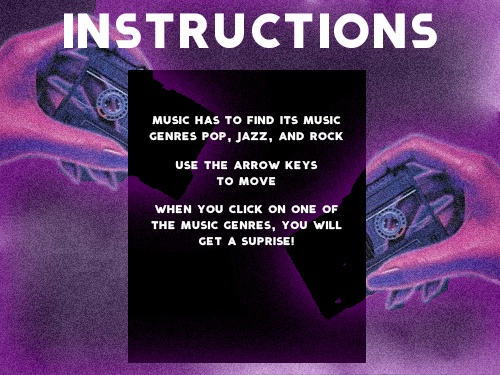
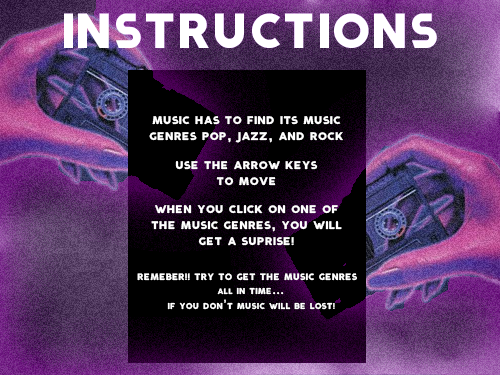
P3: changed instructions images and added stuck array, will try to fix with the help of Enric

Changed region(s): [[0.27, 0.704, 0.72, 0.8507]]

diff --git a/exercises/project3/js/script.js b/exercises/project3/js/script.js
@@ -72,7 +72,15 @@ let winImage;
 
 //decoys
 let decoyText;
+// stuck
+let numStuck = 5;
 
+//array for stuck
+let decoyStuck = [];
+let stuckText1 = [];
+
+//stuck text
+let stuckText;
 // music for preys
 let jazzMusic;
 let popMusic;
@@ -124,6 +132,15 @@ function setup() {
     decoyText1.push(newdecoyText1);
   }
 
+  //an array for decoy
+   for (let i = 0; i < numStuck; i++) {
+    // Position the blue explorer
+    let  newstuckText1 = new Stuck (200, 200, 10, stuckText, 80);
+
+    newstuckText1 .reset();
+    // Add the new browser to the  array
+    stuckText1.push(newstuckText1);
+  }
   // to first show the title screen first
   titleScreen();
 
@@ -154,6 +171,7 @@ function draw() {
 
     // Handle input for music
     music.handleInput();
+
     // Move all the "browsers"
     music.move();
     pop1.move();
@@ -189,6 +207,16 @@ function draw() {
 
     }
 
+    //array
+     for (let i = 0; i < stuckText1.length; i++) {
+       // ... and update and display it
+      push();
+       stuckText1[i].display();
+      music.handleEating(stuckText1[i]);
+
+       pop();
+
+     }
 
     timeCount();
     gameOverScreen();
@@ -324,7 +352,7 @@ function clickFunction() {
   fill(255);
   textAlign(CENTER, TOP);
   textSize(30);
-  text("click the button to play!", 320, 380);
+  text("click the button to play!", 320, 400);
   //button for play
   push();
   button1 = createButton("play");

diff --git a/exercises/project3/js/Music.js b/exercises/project3/js/Music.js
@@ -46,7 +46,7 @@ class Music {
     this.jazzEaten = 0;
     this.popEaten = 0;
     this.rockEaten = 0;
-
+    this.musicIsPlaying = false;
 
 
 
@@ -58,6 +58,7 @@ class Music {
   // Checks if an arrow key is pressed and sets the predator's
   // velocity appropriately.
   handleInput() {
+    if  (this.musicIsPlaying = true) {
     // Horizontal movement
     if (keyIsDown(this.leftKey)) {
       this.vx = -this.speed;
@@ -82,7 +83,7 @@ class Music {
       this.vy = 10;
     }
   }
-
+}
   // move
   //
   // Updates the position according to velocity
@@ -206,7 +207,20 @@ class Music {
       }
 
     }
+
+
   }
+
+  stuck(stuck) {
+    let d = dist(this.x, this.y, stuck.x, stuck.y);
+    // Check if the distance is less than their two radius (an overlap)
+    if (d < this.radius + stuck.radius) {
+      this.musicIsPlaying = false;
+    }
+
+
+  }
+
 
   // display
   //

diff --git a/exercises/project3/js/Stuck.js b/exercises/project3/js/Stuck.js
@@ -5,7 +5,7 @@
 // the screen and be consumed by Predator objects.
 
 // will be adding more function for this class
-class Decoy1 extends Decoy {
+class Stuck extends Decoy {
   constructor() {
     super();
   }
@@ -21,9 +21,10 @@ class Decoy1 extends Decoy {
     // bug is in the center
     //radius kinda disapears woo
     imageMode(CENTER);
-    text("decoy", this.x, this.y);
+    text("stuck", this.x, this.y);
     pop();
 
+  
 
   }
 

diff --git a/exercises/project3/index.html b/exercises/project3/index.html
@@ -17,6 +17,7 @@
 
   <script src="js/Decoy.js"></script>
   <script src="js/Decoy1.js"></script>
+  <script src="js/Stuck.js"></script>
   <script src="js/Music.js"></script>
   <script src="js/Pop1.js"></script>
   <script src="js/Jazz.js"></script>
